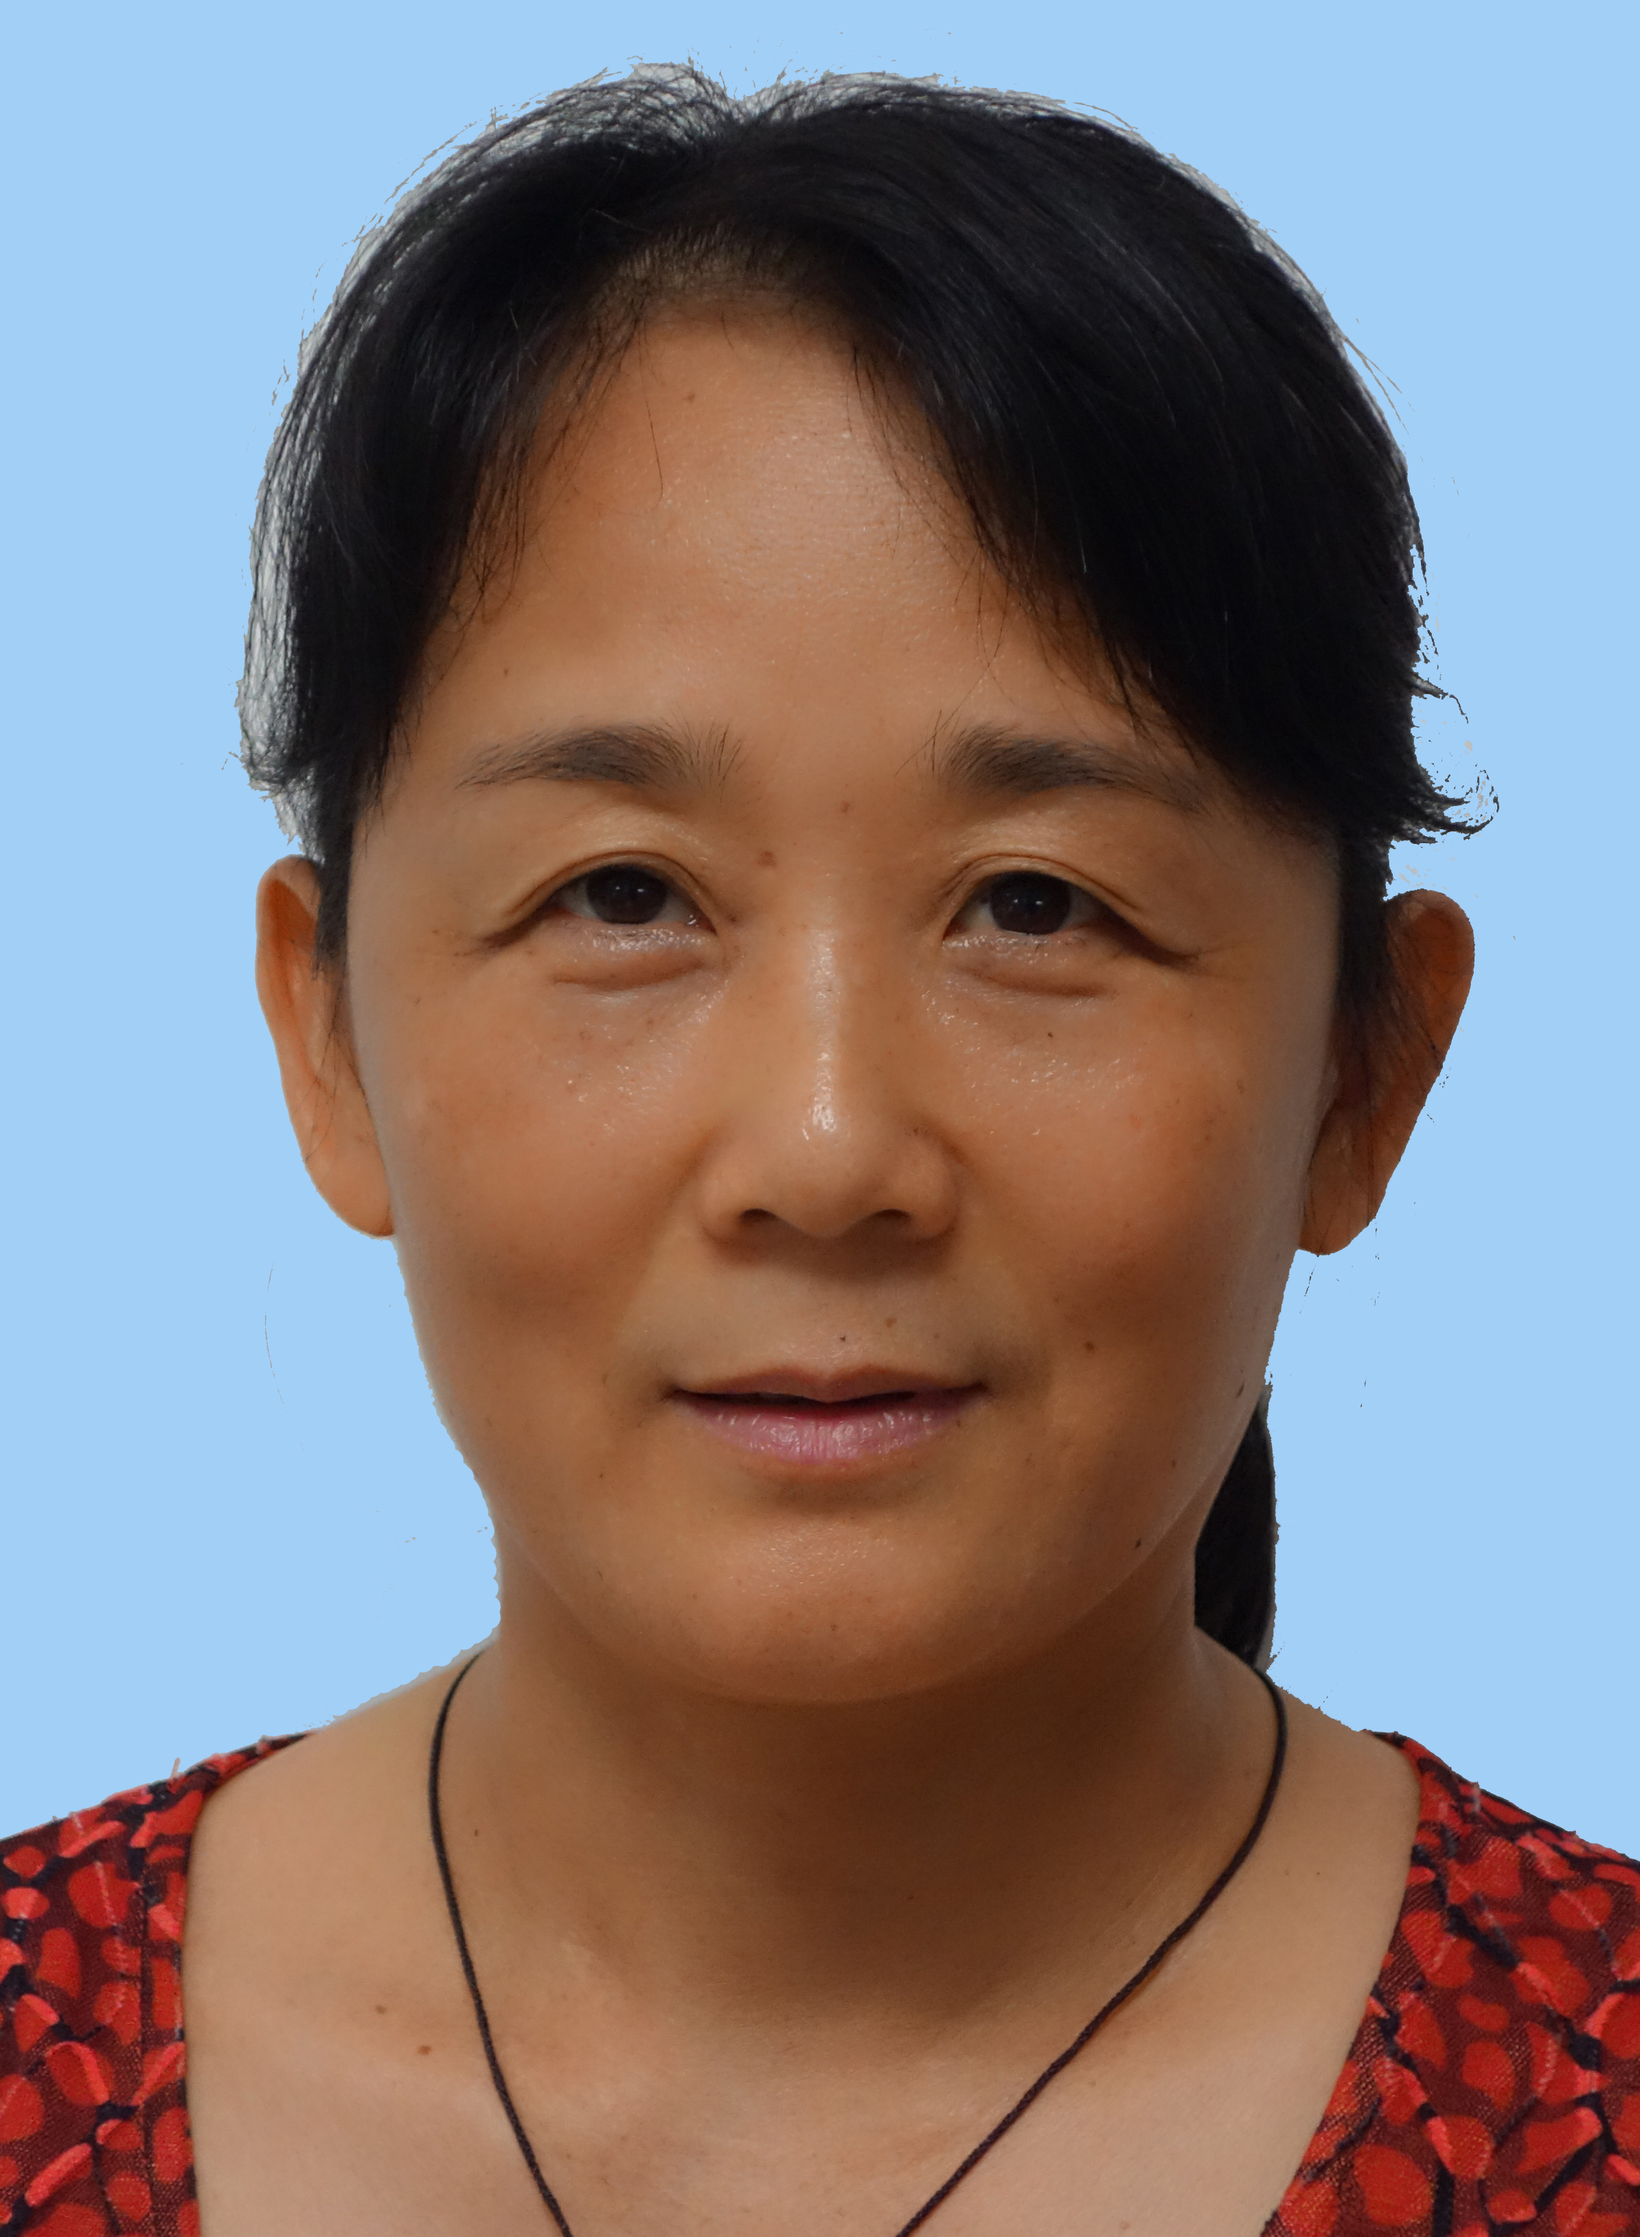
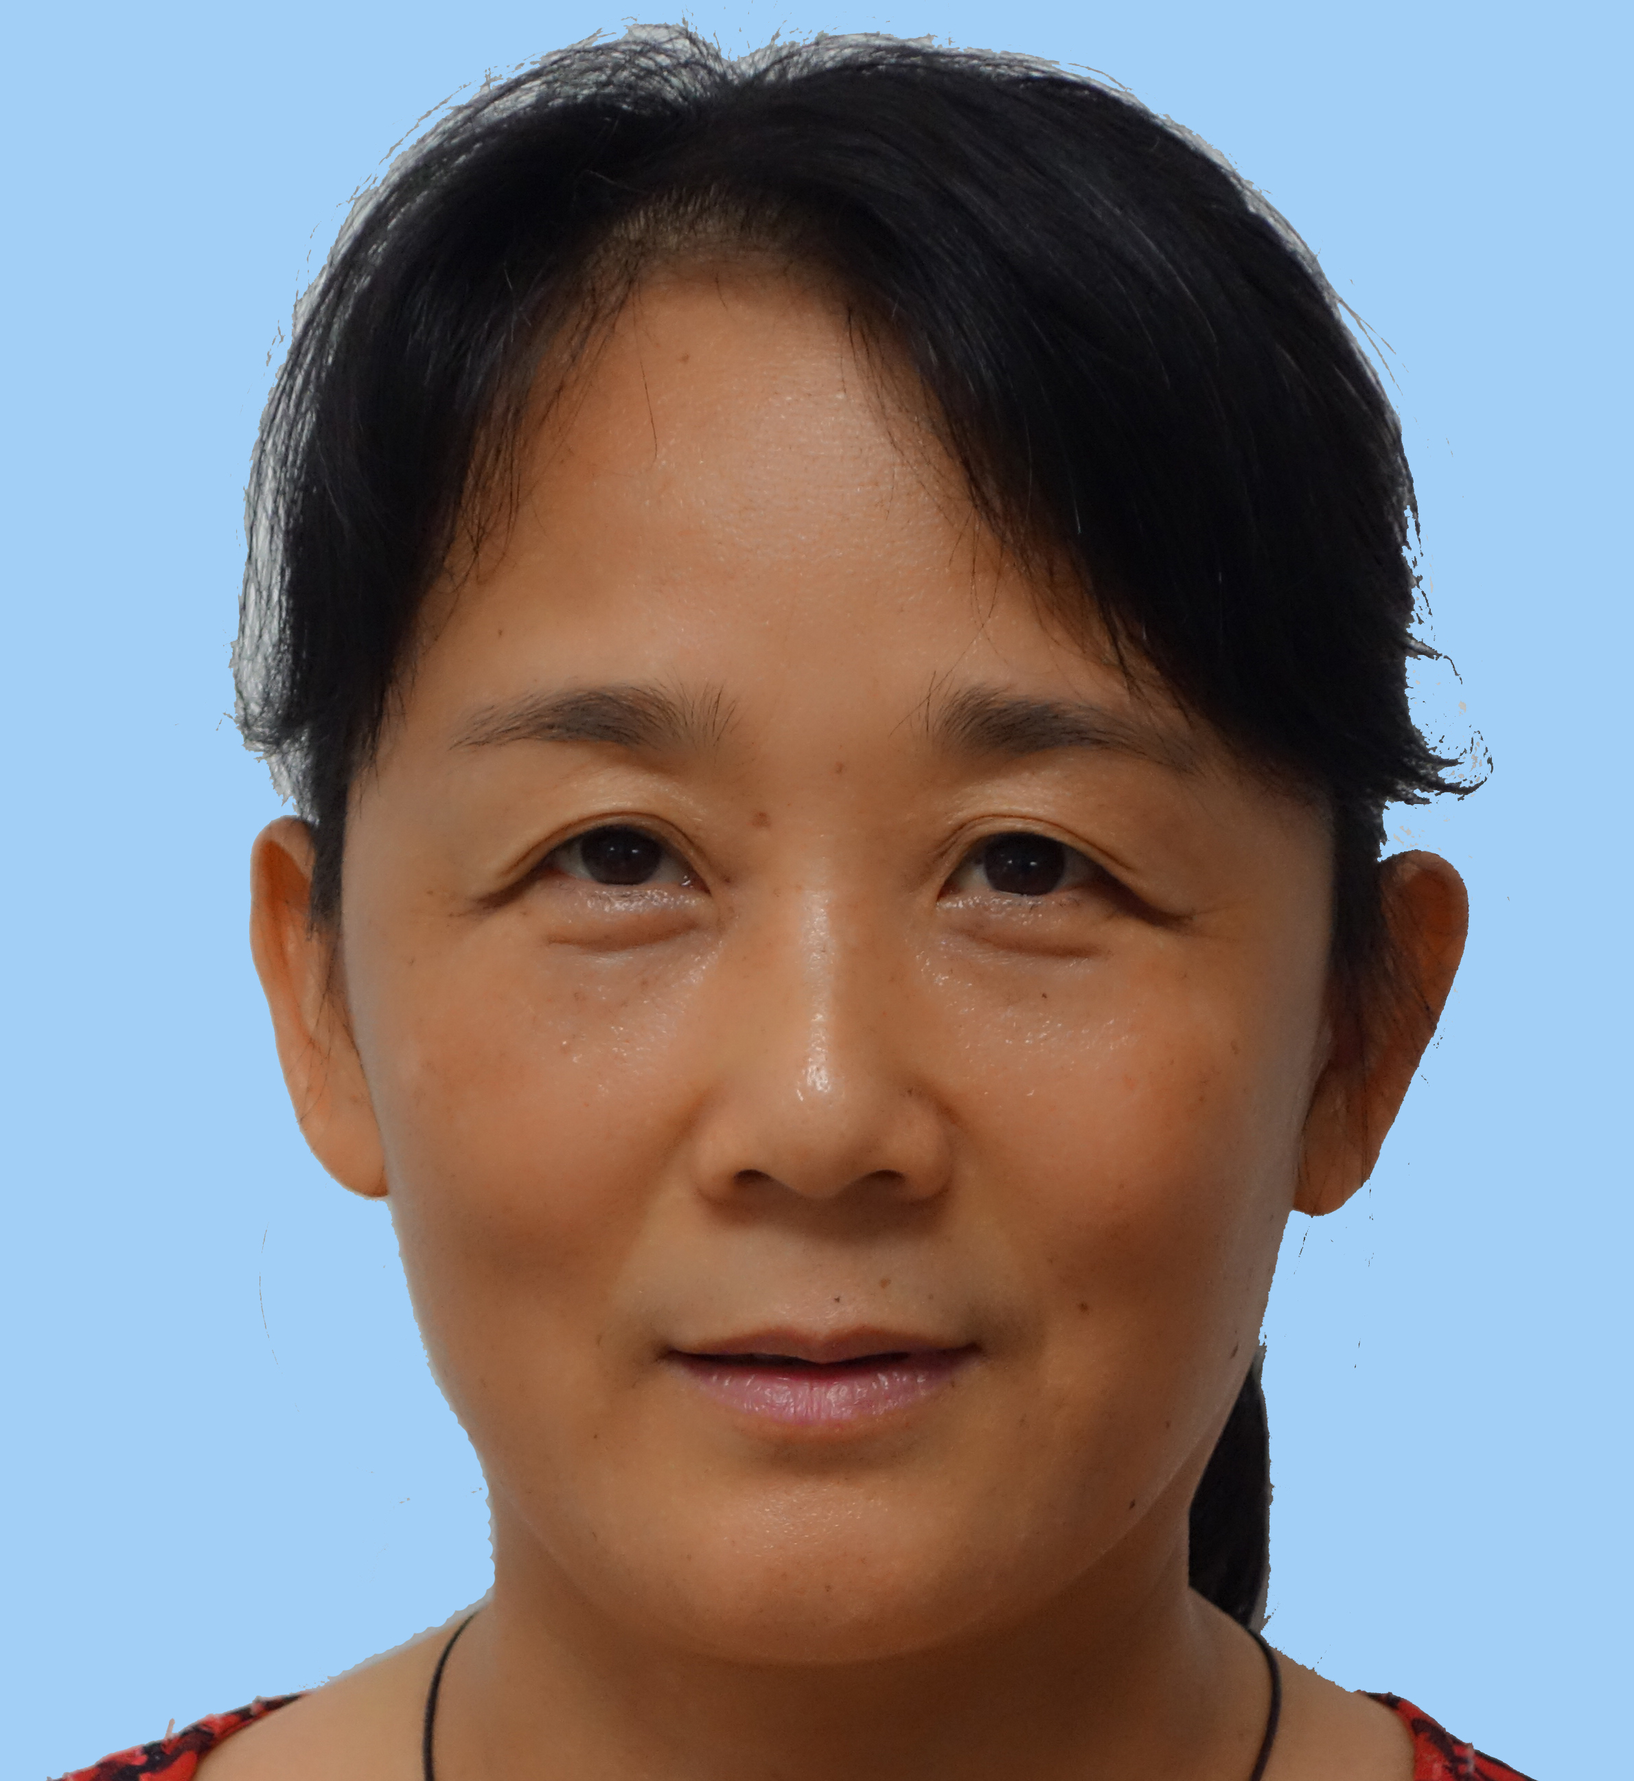
修改教学团队头像

diff --git a/FE-main/src/components/course/TeachingTeam.vue b/FE-main/src/components/course/TeachingTeam.vue
@@ -42,11 +42,10 @@ export default {
   flex-wrap: wrap
   justify-content: space-around
   .info-holder
-    width: 32%
     margin-bottom: 15px
     .head-img
       display: block
-      width: 60%
+      width: 300px
       height: 300px
       border-radius: 50%
       border: 5px solid rgba(0, 0, 0, 0.1)
